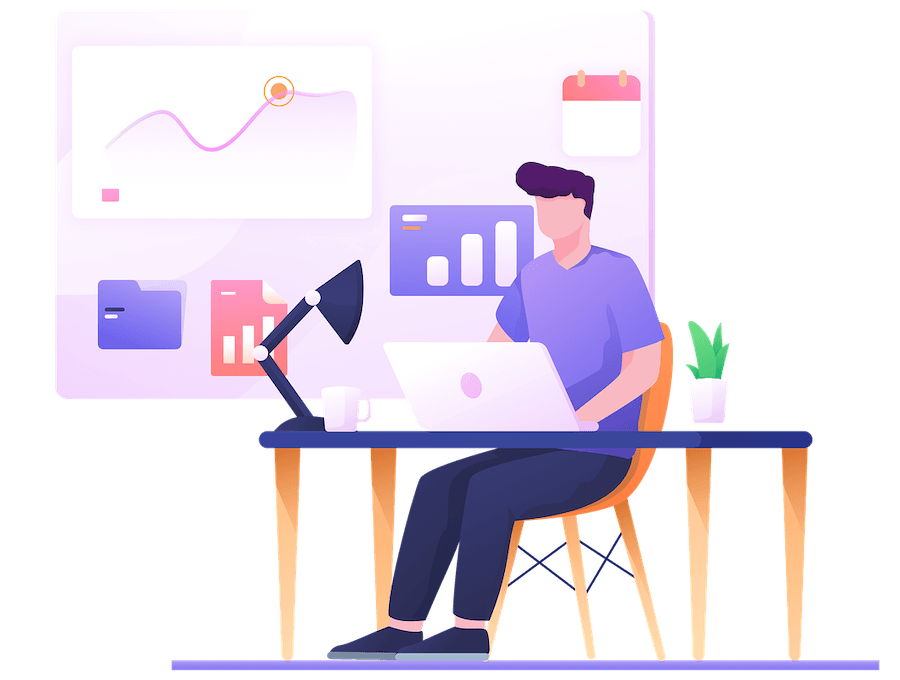
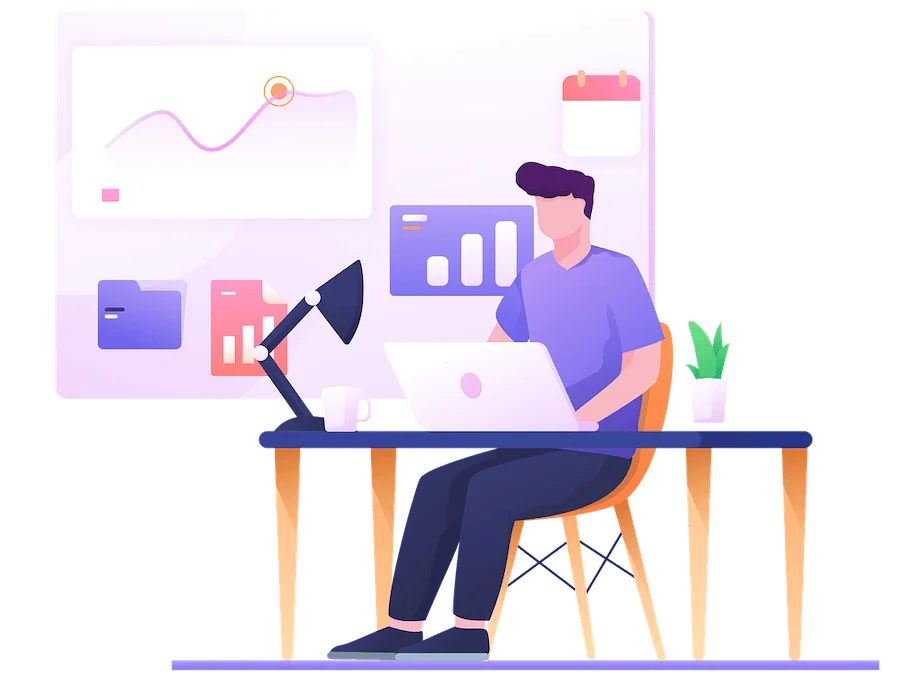
image size reduction

diff --git a/src/Components/Sections/About/About.js b/src/Components/Sections/About/About.js
@@ -1,6 +1,6 @@
 import React from "react";
 import "./About.css";
-import Me from "./mohamud.png";
+import Me from "./mohamud.webp";
 
 const About = () => {
   return (
